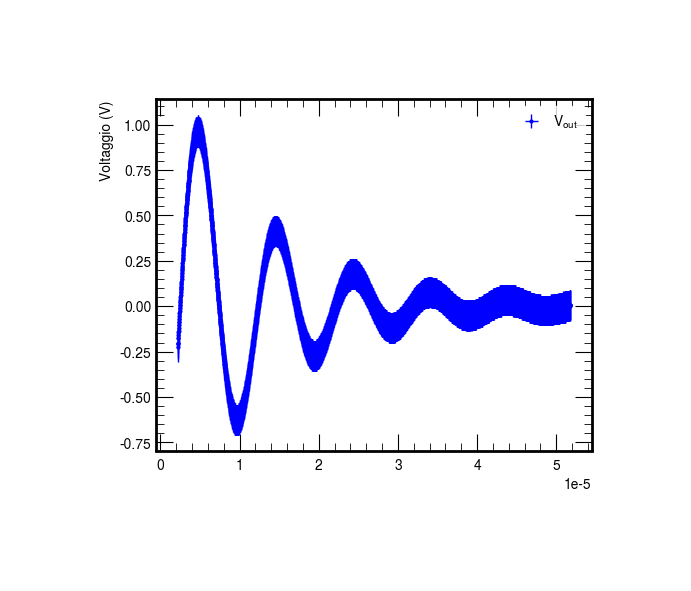
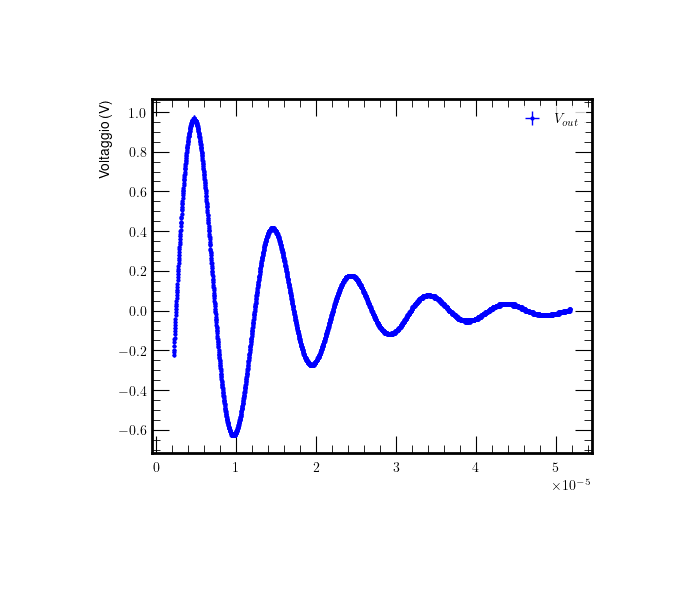
Change .gitignore

Changed region(s): [[0.1216, 0.1523, 0.8509, 0.8528], [0.7598, 0.1827, 0.8509, 0.2132]]

diff --git a/codeProf/RLC_smorzC_v0.py b/codeProf/RLC_smorzC_v0.py
@@ -6,7 +6,7 @@ import mplhep as hep
 from cycler import cycler
 import matplotlib.colors as colors
 import multiprocessing.pool
-
+import latex
 
 # settaggio globale grafici    
 #print(plt.style.available)
@@ -25,7 +25,7 @@ params = {'legend.fontsize': '10',
          'xtick.labelsize':'10',
          'ytick.labelsize':'10',
          'lines.linewidth': '1',
-#         'text.usetex': True,
+         'text.usetex': True,
 #         'axes.formatter.limits': '-5, -3',
          'axes.formatter.min_exponent': '2',
 #         'axes.prop_cycle': cycler('color', 'bgrcmyk')
@@ -126,7 +126,7 @@ t0init = 0e-6 # shift temporale dell'inizio dell'oscillazione (s)
 
 
 # Assumed reading errors
-letturaV = 0.2*0.41  # errore di lettura dell'oscilloscopio nel voltaggio 1/10 div * distr.triangolare
+letturaV = 0.02*0.41  # errore di lettura dell'oscilloscopio nel voltaggio 1/10 div * distr.triangolare
 errscalaV = 0.03*0.41 #  errore percentuale dell'oscilloscopio nel voltaggio 3% * distr.triangolare
 letturaT = 0.5e-6*0.41  # errore di lettura dell'oscilloscopio nel tempo 1/10 div * distr.triangolare
 
